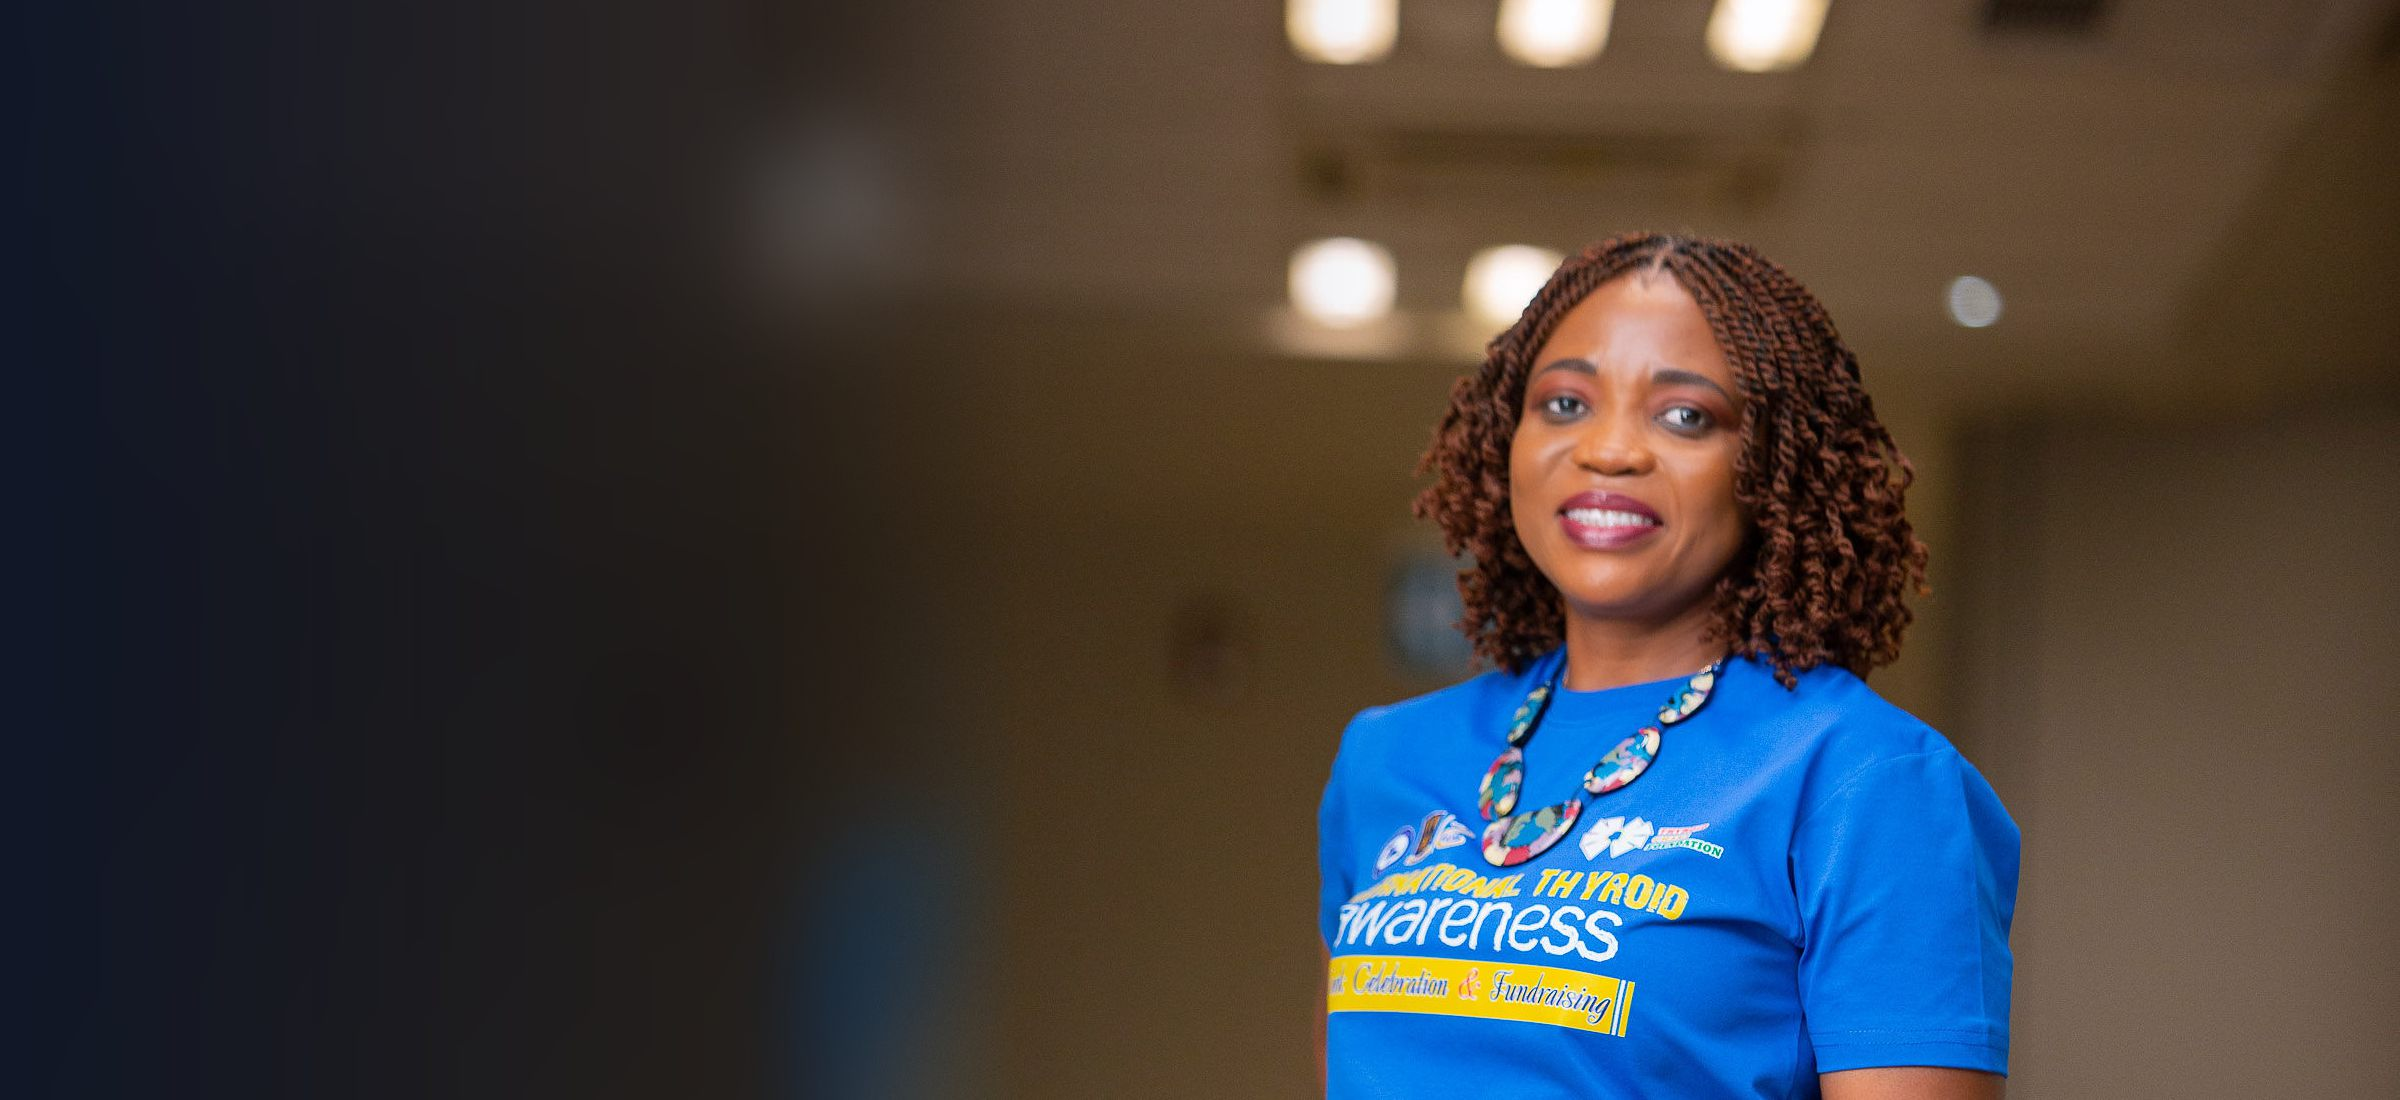
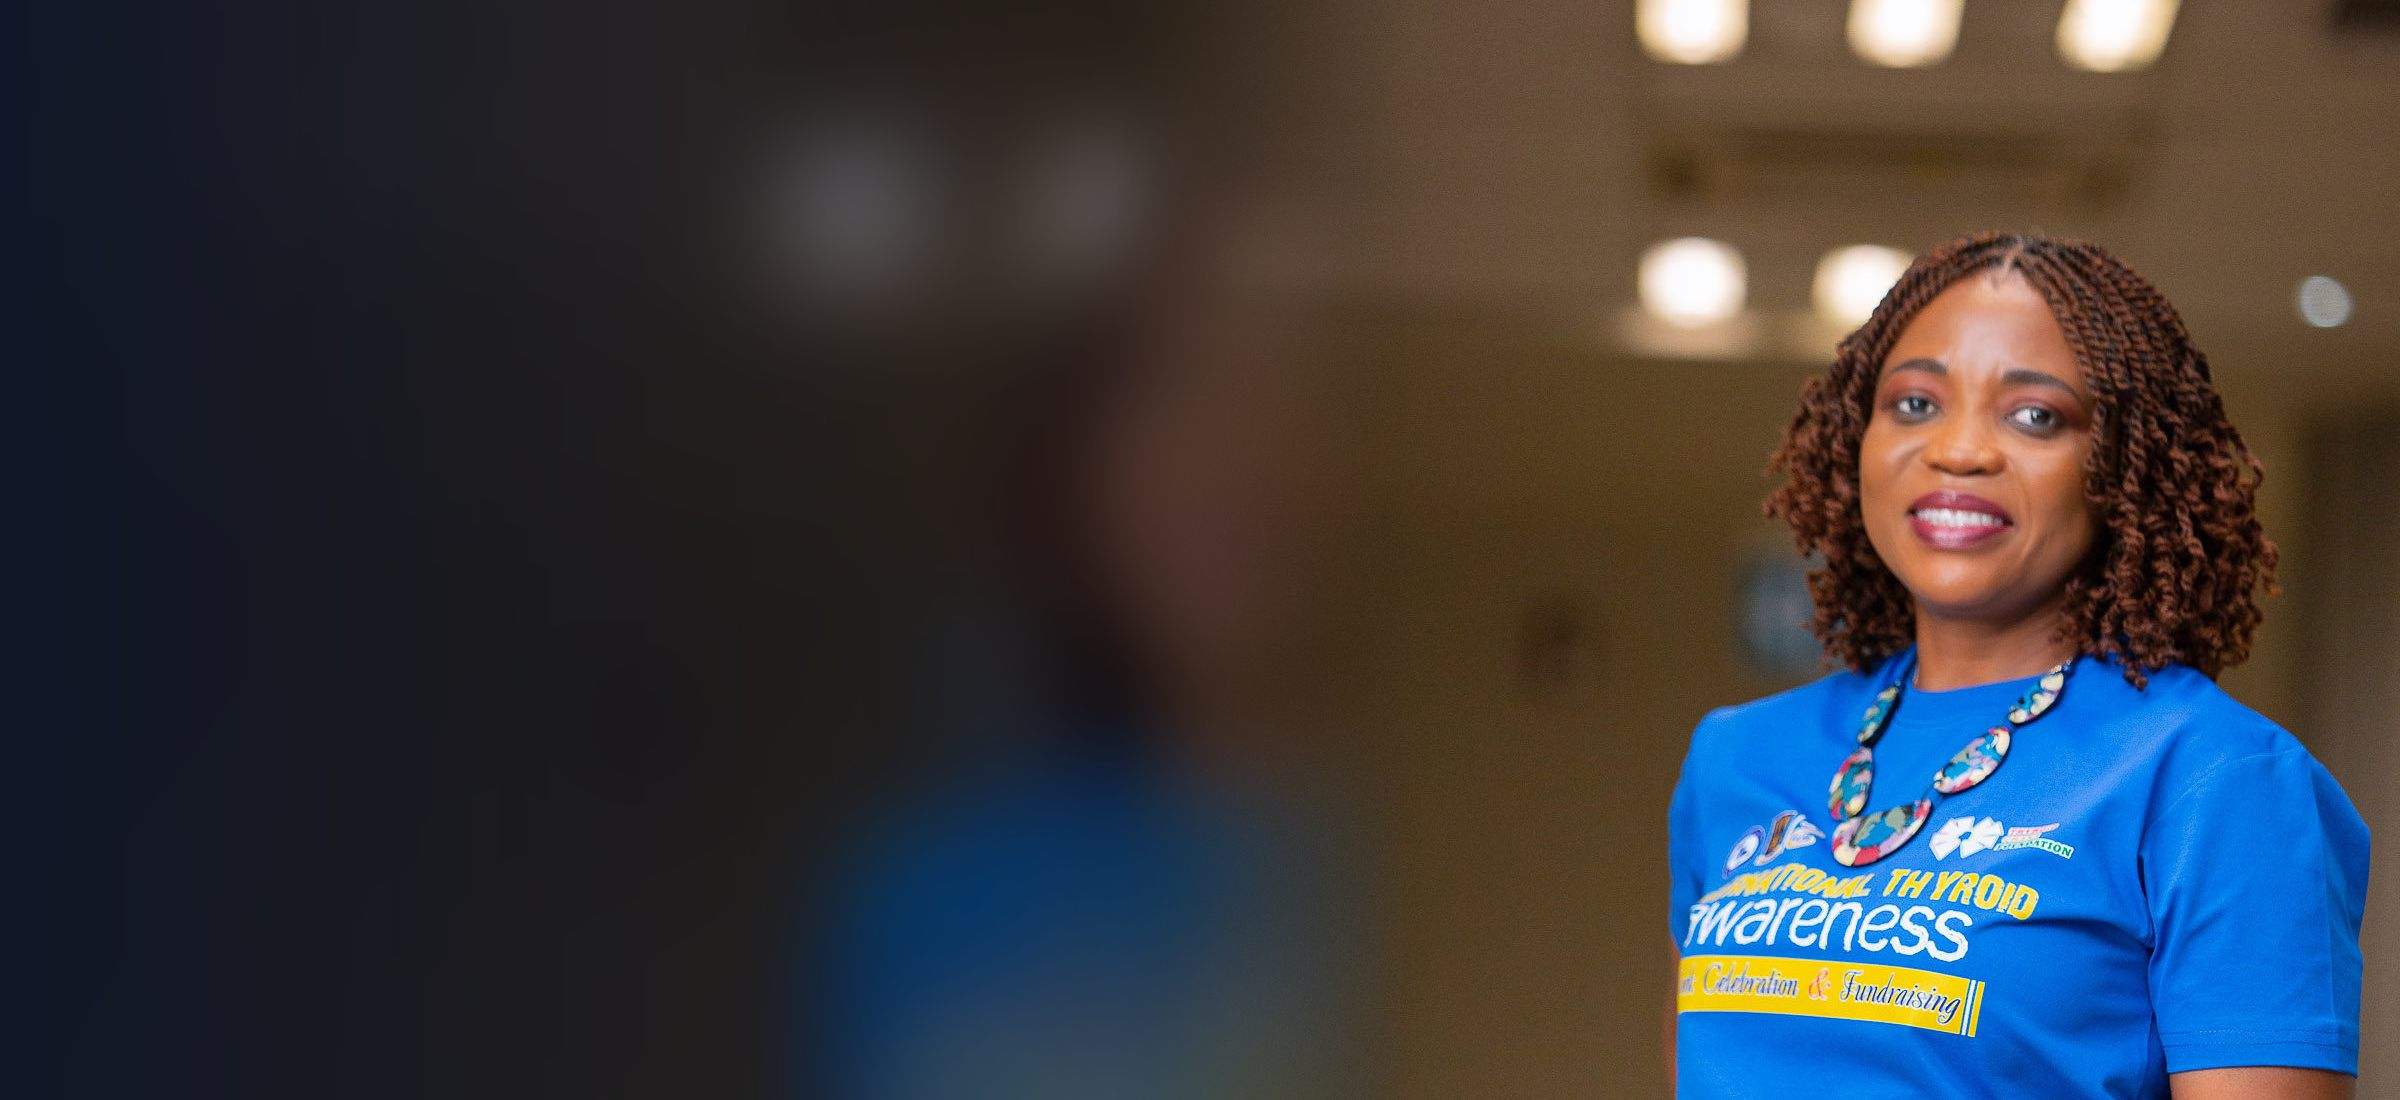
fix(tgf): keep the founder's face clear of the hero headline
On the live site the headline overlapped her face. Shift the subject further
right in the hero composite, move the focal point to 90% 30% (so the face
survives the narrower crops on phones) and raise the overlay to 0.35 for
readability where text sits over the image. Re-run the awareness-week seeder
to refresh the image and slide settings.

diff --git a/tests/Feature/SiteThyroidGhanaFoundation/AwarenessWeek2026ContentTest.php b/tests/Feature/SiteThyroidGhanaFoundation/AwarenessWeek2026ContentTest.php
@@ -130,7 +130,7 @@ it('corrects the founder honorific on existing content without touching other ti
 it('gives the founder a hero slide with a focal point and a light overlay', function (): void {
     $html = $this->get('https://thyroidghanafoundation.org/')->assertOk()->getContent();
 
-    expect($html)->toContain('rgba(15,23,42,0.2)')->toContain('72% 35%/cover');
+    expect($html)->toContain('rgba(15,23,42,0.35)')->toContain('90% 30%/cover');
 });
 
 it('shows the founder portrait on the Founder page and home quote, and Dr. on the team page', function (): void {

diff --git a/app/Modules/SiteThyroidGhanaFoundation/Database/Seeders/ThyroidAwarenessWeek2026Seeder.php b/app/Modules/SiteThyroidGhanaFoundation/Database/Seeders/ThyroidAwarenessWeek2026Seeder.php
@@ -249,8 +249,8 @@ final class ThyroidAwarenessWeek2026Seeder extends Seeder
                     'cta_url' => '/site/the-founder',
                     'cta2_label' => 'Support Our Cause',
                     'cta2_url' => '/site/donate',
-                    'bg_position' => '72% 35%',
-                    'bg_overlay' => '0.2',
+                    'bg_position' => '90% 30%',
+                    'bg_overlay' => '0.35',
                 ],
             ],
         ];
